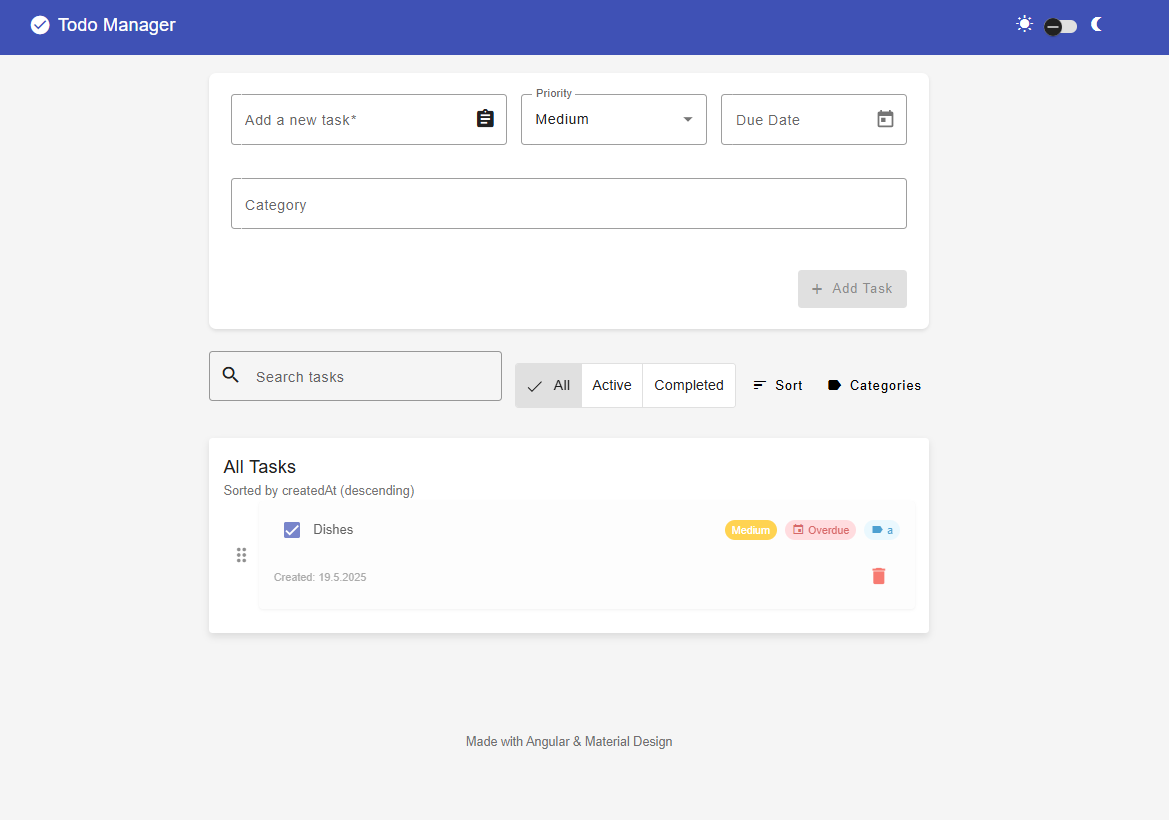
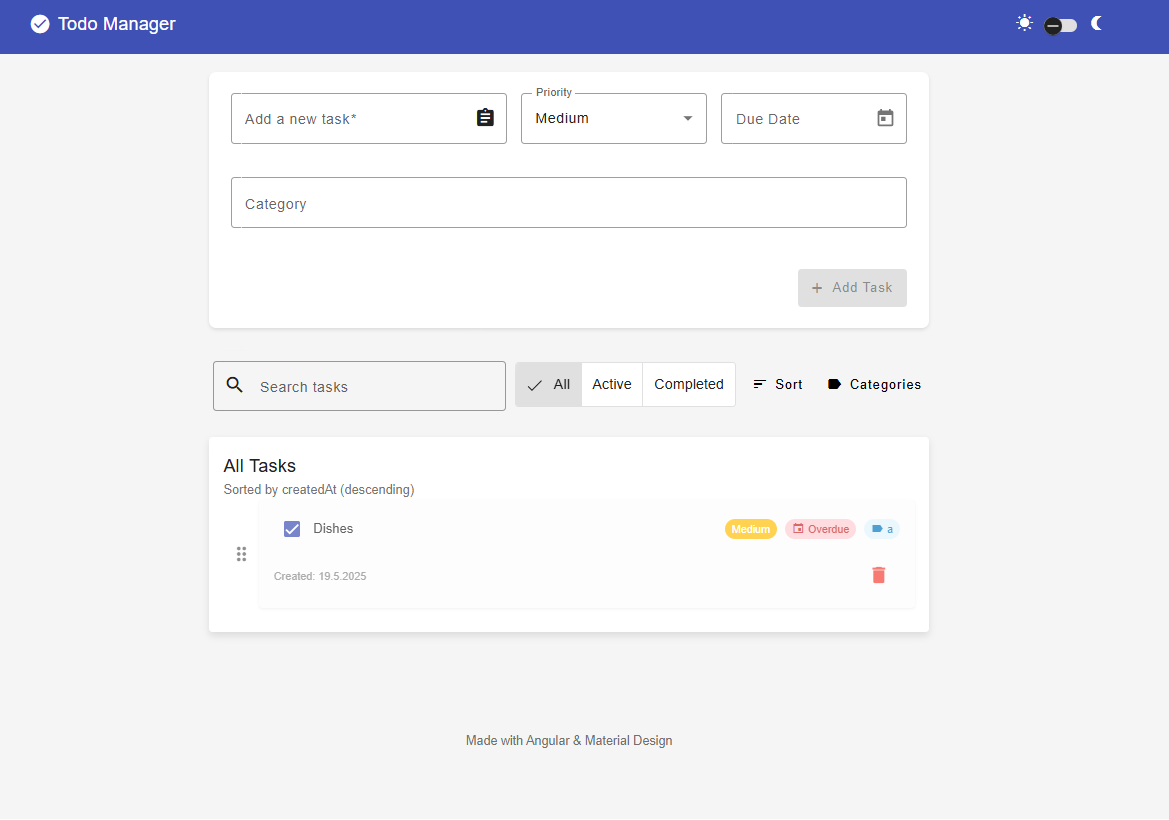
Fixed an alignment issue with the search bar and updated the screenshots

diff --git a/src/app/todo-list/todo-list.component.scss b/src/app/todo-list/todo-list.component.scss
@@ -3,12 +3,27 @@
   flex-wrap: wrap;
   gap: 15px;
   margin-bottom: 15px;
+  align-items: flex-end;
   
   .search-box {
     flex: 1 1 300px;
     
     mat-form-field {
       width: 100%;
+      margin: 0;
+      
+      ::ng-deep .mat-mdc-text-field-wrapper {
+        padding-top: 0;
+      }
+      
+      ::ng-deep .mat-mdc-form-field-infix {
+        padding-top: 8px;
+        padding-bottom: 8px;
+      }
+      
+      ::ng-deep .mat-mdc-form-field-subscript-wrapper {
+        display: none;
+      }
     }
   }
   
@@ -17,6 +32,7 @@
     flex-wrap: wrap;
     gap: 10px;
     align-items: center;
+    padding-bottom: 4px;
   }
 }
 
